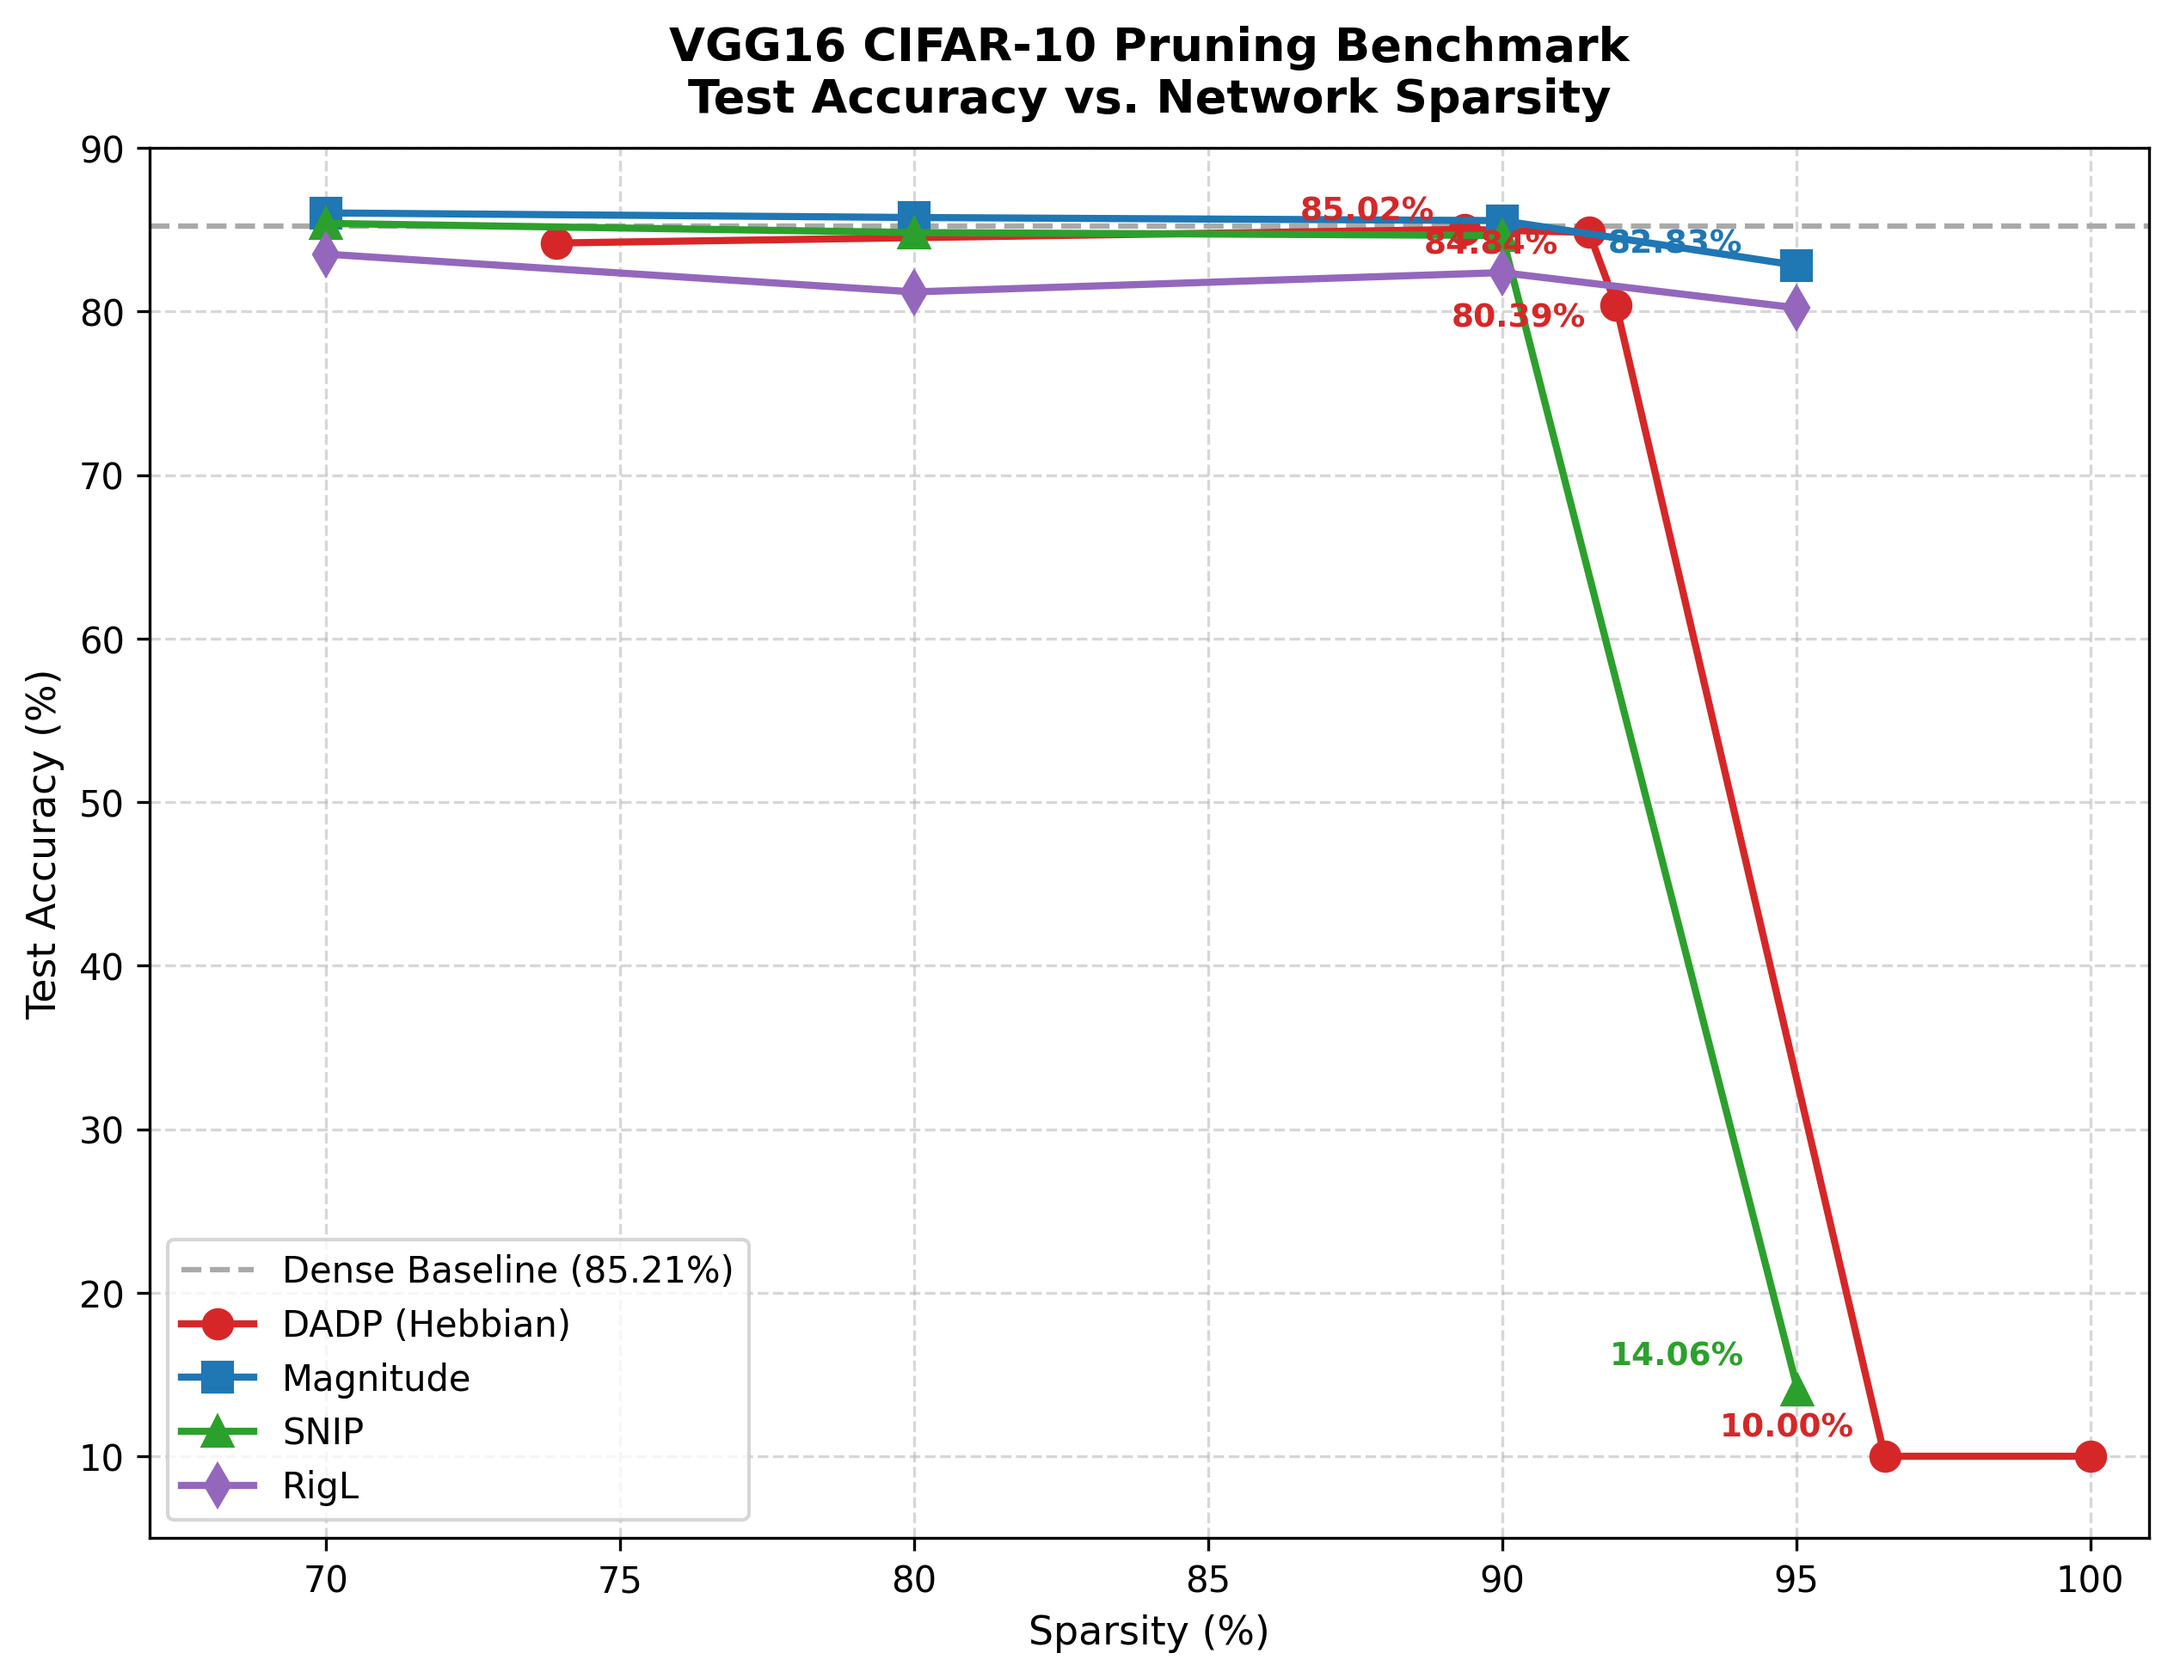
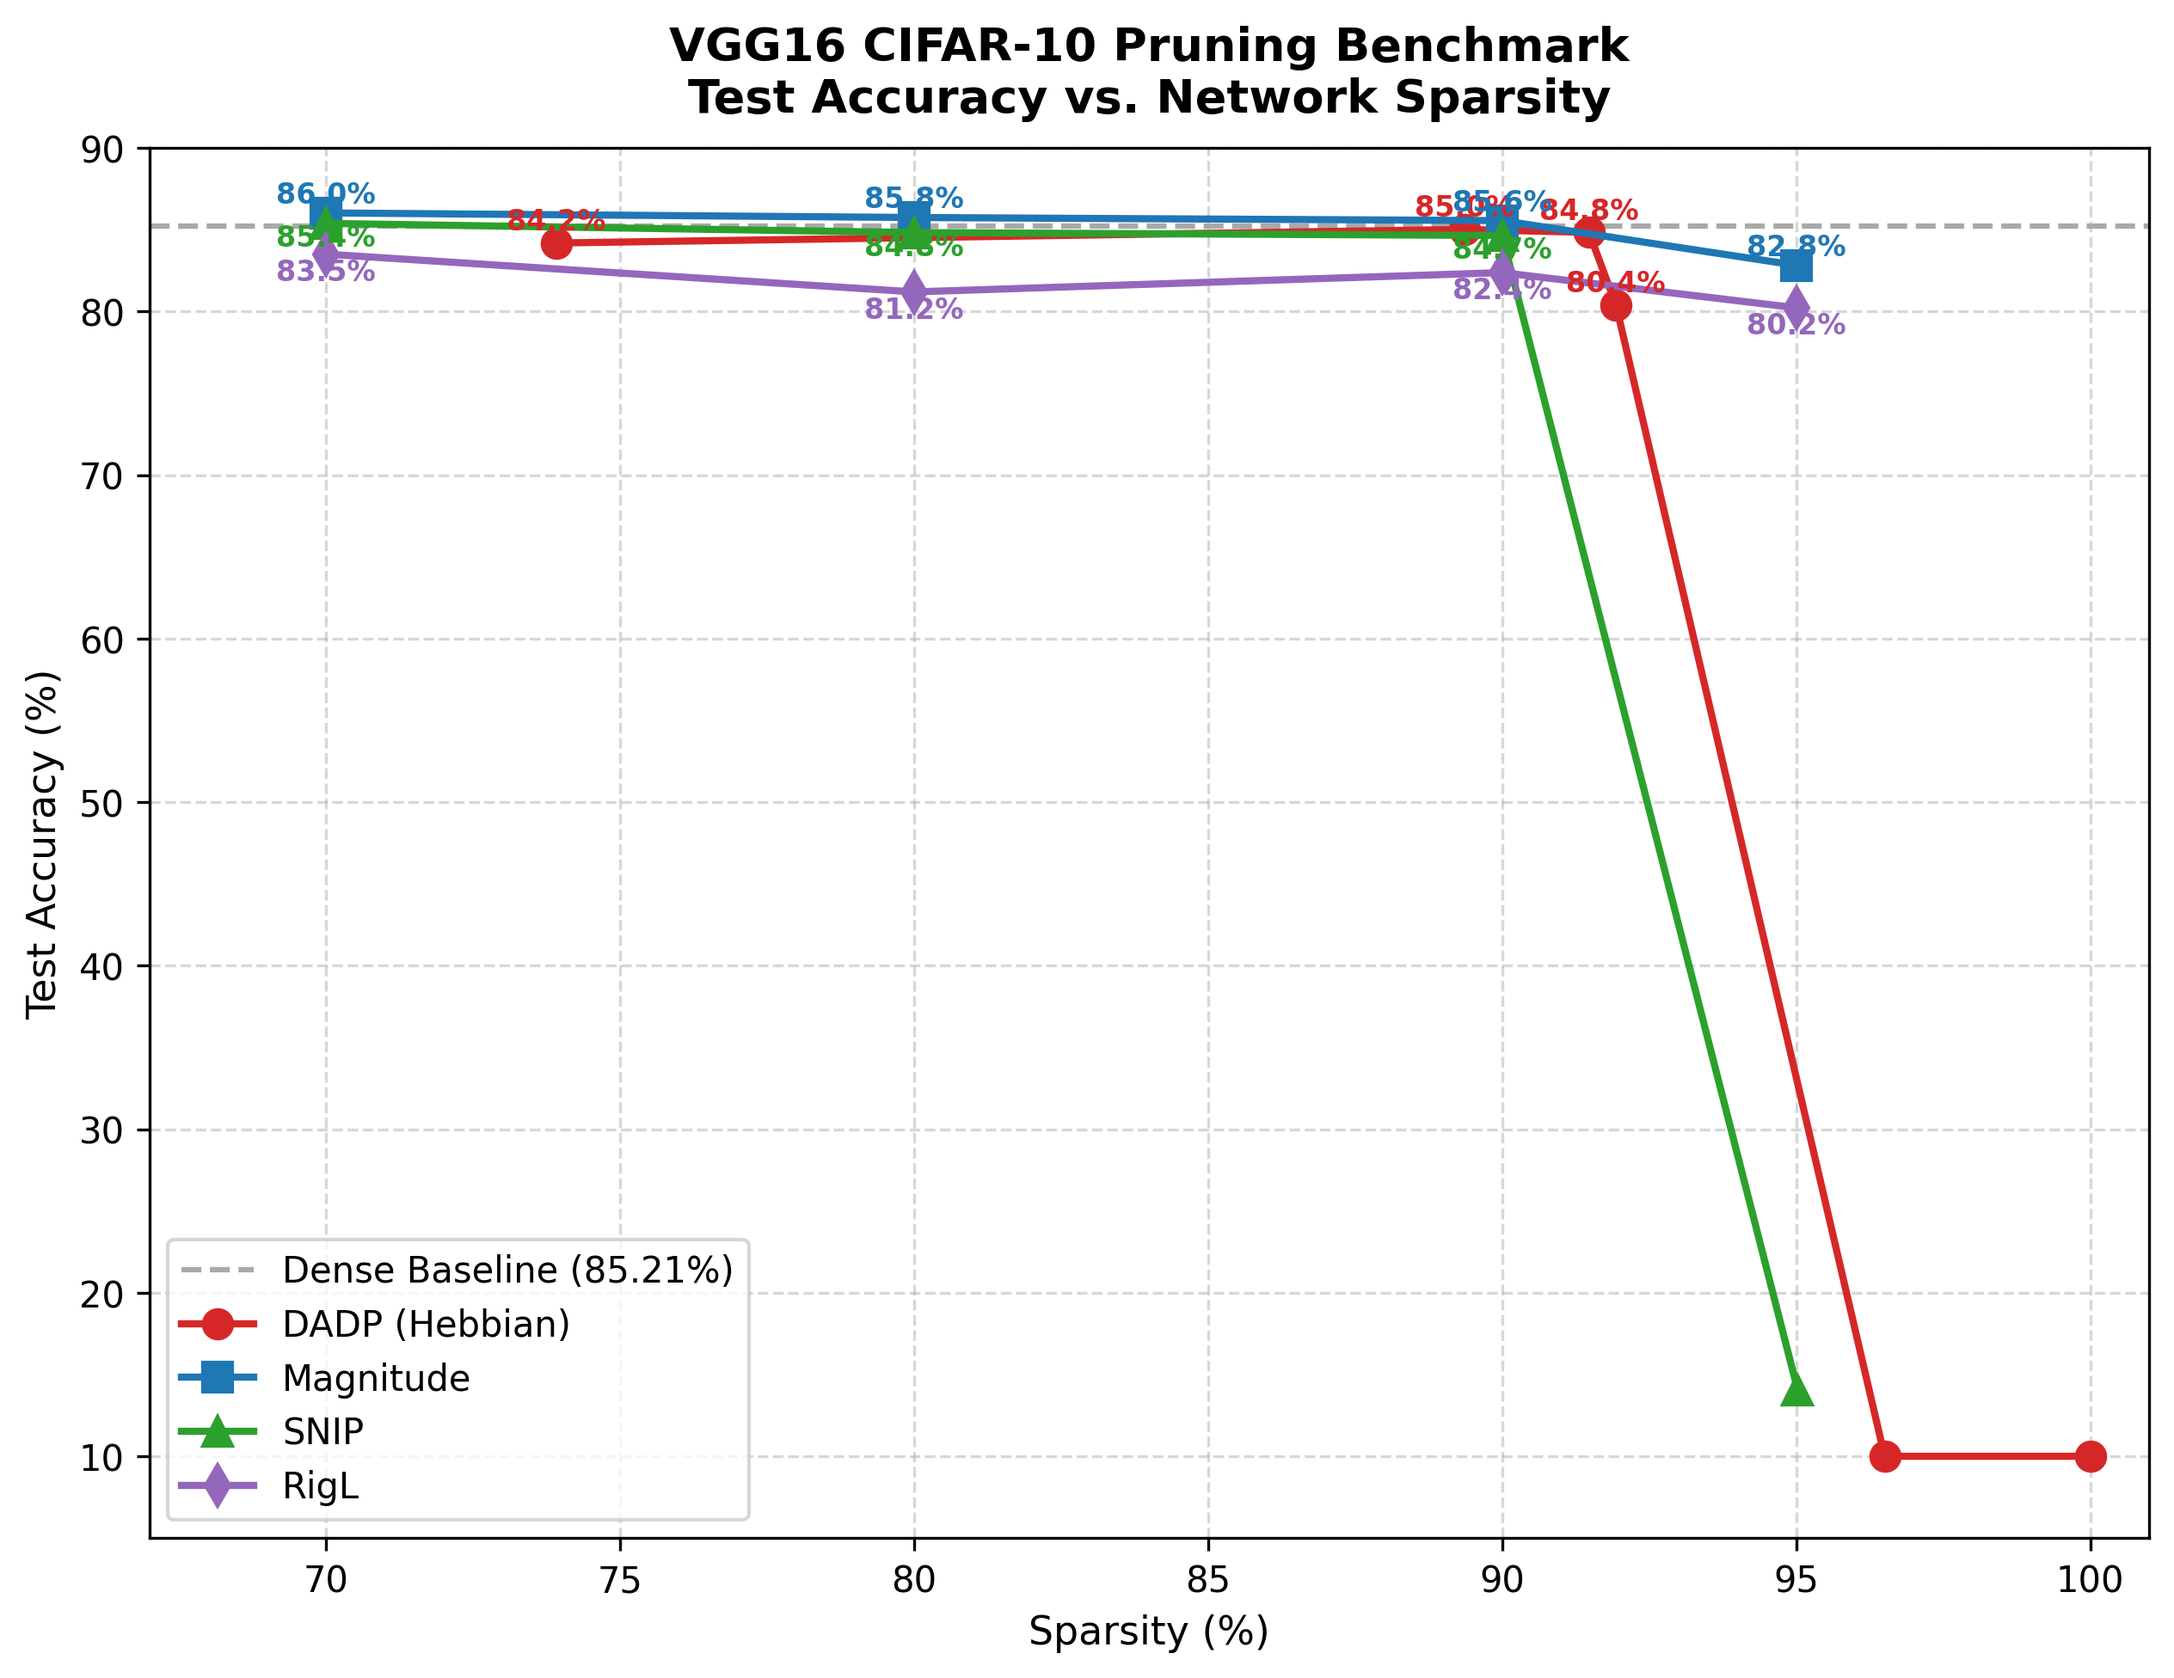
style: add dynamic accuracy text labels to all points in VGG-16 and ResNet-18 sparsity vs accuracy benchmark plots

diff --git a/scripts/plotting/plot_vgg16_comparison.py b/scripts/plotting/plot_vgg16_comparison.py
@@ -67,29 +67,27 @@ for mode in ['hebbian', 'magnitude', 'snip', 'rigl']:
     plt.plot(x, y, color=styles[mode]['color'], marker=styles[mode]['marker'],
              linewidth=styles[mode]['linewidth'], label=styles[mode]['label'], markersize=8)
 
-# 3. Add text labels on key points (collapse boundaries and peak values)
-# Annotate key DADP points
-hebbian_pts = data_points['hebbian']
-for sp, acc in hebbian_pts:
-    if sp > 88.0:  # Annotate high-sparsity DADP points
-        if abs(sp - 89.36) < 0.5:
-            plt.text(sp - 2.8, acc + 0.6, f'{acc:.2f}%', color='#d62728', fontweight='bold', fontsize=9)
-        elif abs(sp - 91.48) < 0.5:
-            plt.text(sp - 2.8, acc - 1.3, f'{acc:.2f}%', color='#d62728', fontweight='bold', fontsize=9)
-        elif abs(sp - 96.50) < 0.5:
-            plt.text(sp - 2.8, acc + 1.2, f'{acc:.2f}%', color='#d62728', fontweight='bold', fontsize=9)
+# 3. Add text labels on all points dynamically avoiding overlaps
+points_by_sp = {}
+for mode in ['hebbian', 'magnitude', 'snip', 'rigl']:
+    for sp, acc in data_points[mode]:
+        sp_round = round(sp, 1)
+        if sp_round not in points_by_sp:
+            points_by_sp[sp_round] = []
+        points_by_sp[sp_round].append((acc, mode, sp))
 
-# Annotate collapsed SNIP point at 95%
-snip_pts = data_points['snip']
-for sp, acc in snip_pts:
-    if abs(sp - 95.03) < 0.1:
-        plt.text(sp - 3.2, acc + 1.5, f'{acc:.2f}%', color='#2ca02c', fontweight='bold', fontsize=9)
-
-# Annotate high Magnitude point at 95%
-mag_pts = data_points['magnitude']
-for sp, acc in mag_pts:
-    if abs(sp - 95.03) < 0.1:
-        plt.text(sp - 3.2, acc + 0.8, f'{acc:.2f}%', color='#1f77b4', fontweight='bold', fontsize=9)
+for sp_round, pts in points_by_sp.items():
+    pts = sorted(pts, key=lambda val: val[0], reverse=True)
+    for rank, (acc, mode, sp_orig) in enumerate(pts):
+        if acc < 20.0:
+            continue
+        offset_y = 0.6 if rank % 2 == 0 else -1.4
+        if mode == 'hebbian':
+            offset_y = 0.8
+        elif mode == 'rigl':
+            offset_y = -1.6
+        plt.text(sp_orig, acc + offset_y, f'{acc:.1f}%', 
+                 color=styles[mode]['color'], fontsize=8, ha='center', fontweight='bold')
 
 # Styling and Labels
 plt.title('VGG16 CIFAR-10 Pruning Benchmark\nTest Accuracy vs. Network Sparsity', fontsize=13, fontweight='bold', pad=10)

diff --git a/scripts/plotting/plot_resnet18_comparison.py b/scripts/plotting/plot_resnet18_comparison.py
@@ -65,28 +65,27 @@ for mode in ['hebbian', 'magnitude', 'snip', 'rigl']:
     plt.plot(x, y, color=styles[mode]['color'], marker=styles[mode]['marker'],
              linewidth=styles[mode]['linewidth'], label=styles[mode]['label'], markersize=8)
 
-# 3. Add text labels on key points
-# Annotate key DADP points
-hebbian_pts = data_points['hebbian']
-for sp, acc in hebbian_pts:
-    if sp > 88.0:
-        if abs(sp - 89.62) < 0.5:
-            plt.text(sp - 2.8, acc + 0.6, f'{acc:.2f}%', color='#d62728', fontweight='bold', fontsize=9)
-        elif abs(sp - 95.58) < 0.5:
-            plt.text(sp - 2.8, acc + 0.8, f'{acc:.2f}%', color='#d62728', fontweight='bold', fontsize=9)
-        elif abs(sp - 99.23) < 0.5:
-            plt.text(sp - 2.8, acc + 0.8, f'{acc:.2f}%', color='#d62728', fontweight='bold', fontsize=9)
+# 3. Add text labels on all points dynamically avoiding overlaps
+points_by_sp = {}
+for mode in ['hebbian', 'magnitude', 'snip', 'rigl']:
+    for sp, acc in data_points[mode]:
+        sp_round = round(sp, 1)
+        if sp_round not in points_by_sp:
+            points_by_sp[sp_round] = []
+        points_by_sp[sp_round].append((acc, mode, sp))
 
-# Annotate collapsed / high-sparsity points for other methods
-snip_pts = data_points['snip']
-for sp, acc in snip_pts:
-    if abs(sp - 99.00) < 0.1:
-        plt.text(sp - 3.2, acc - 1.5, f'{acc:.2f}%', color='#2ca02c', fontweight='bold', fontsize=9)
-
-mag_pts = data_points['magnitude']
-for sp, acc in mag_pts:
-    if abs(sp - 99.00) < 0.1:
-        plt.text(sp - 3.2, acc - 1.5, f'{acc:.2f}%', color='#1f77b4', fontweight='bold', fontsize=9)
+for sp_round, pts in points_by_sp.items():
+    pts = sorted(pts, key=lambda val: val[0], reverse=True)
+    for rank, (acc, mode, sp_orig) in enumerate(pts):
+        if acc < 20.0:
+            continue
+        offset_y = 0.6 if rank % 2 == 0 else -1.4
+        if mode == 'hebbian':
+            offset_y = 0.8
+        elif mode == 'rigl':
+            offset_y = -1.6
+        plt.text(sp_orig, acc + offset_y, f'{acc:.1f}%', 
+                 color=styles[mode]['color'], fontsize=8, ha='center', fontweight='bold')
 
 # Styling and Labels
 plt.title('ResNet-18 CIFAR-10 Pruning Benchmark\nTest Accuracy vs. Network Sparsity', fontsize=13, fontweight='bold', pad=10)
